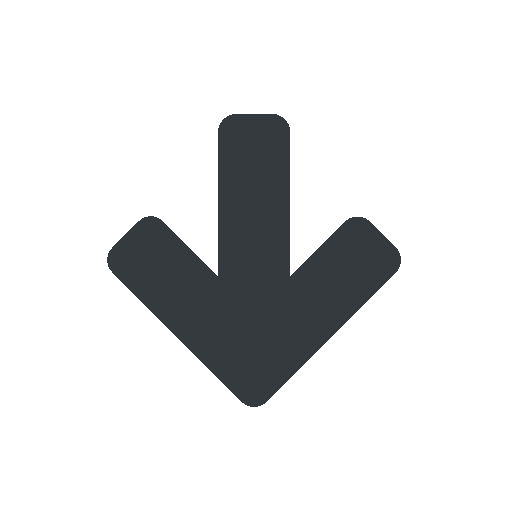
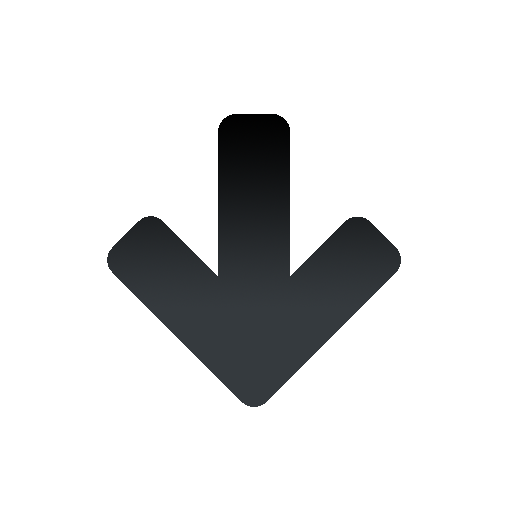
Navigation hover effects and various changes
* Added bold on hover for navigation
* Changed the down arrow graphic with a gradient
* Updated social media links to reflect actual URLs

Changed region(s): [[0.4062, 0.2188, 0.5938, 0.4375], [0.6562, 0.4062, 0.7188, 0.4375], [0.25, 0.4062, 0.3125, 0.4375]]

diff --git a/index.html b/index.html
@@ -30,9 +30,9 @@
 <div class="intro-section">
 <img src="images/downarrow.png" alt"Down" height="100" width="100" />
 <p class="intro">Hello! My name is Steffon Joseph Scott and I am a Las Vegas based IT Consultant and programmer with an innate passion for all aspects of technology. I am driven by my interest to learn and to help others take full advantage of the technological tools that we have available to us in this day and age.</p>
-<a href="index.html" class="socialmediabtn"><img src="images/twitterbtn.png" alt="Twitter" height="42" width="42"></a>
-<a href="http://www.facebook.com/sterylite" class="socialmediabtn"><img src="images/facebookbtn.png" alt="Twitter" height="42" width="42"></a>
-<a href="index.html"><img src="images/googleplusicn.png" alt="Twitter" height="42" width="42"></a>
+<a href="https://twitter.com/Kaelozim86" class="socialmediabtn"><img src="images/twitterbtn.png" alt="Twitter" height="62" width="62"></a>
+<a href="http://www.facebook.com/sterylite" class="socialmediabtn"><img src="images/facebookbtn.png" alt="Twitter" height="62" width="62"></a>
+<a href="https://plus.google.com/108963880339129070378"><img src="images/googleplusicn.png" alt="Twitter" height="62" width="62"></a>
 </div>
 
 <div class="latestwork-section">

diff --git a/styles.css b/styles.css
@@ -42,6 +42,9 @@ line-height: 50px;
 padding-left: 25px;
 padding-top: 3px;
 }
+.toolbar-link:hover {
+   font-weight:700;
+   }
 .top-titlebar
 {
 position: relative;
@@ -139,6 +142,7 @@ p.intro
 {
 margin-left: 15%;
 margin-right: 15%;
+margin-top: 3%;
 margin-bottom: 75px;
 text-align: center;
 font-family:"Myriad Pro", arial, helvetica, sans-serif;
